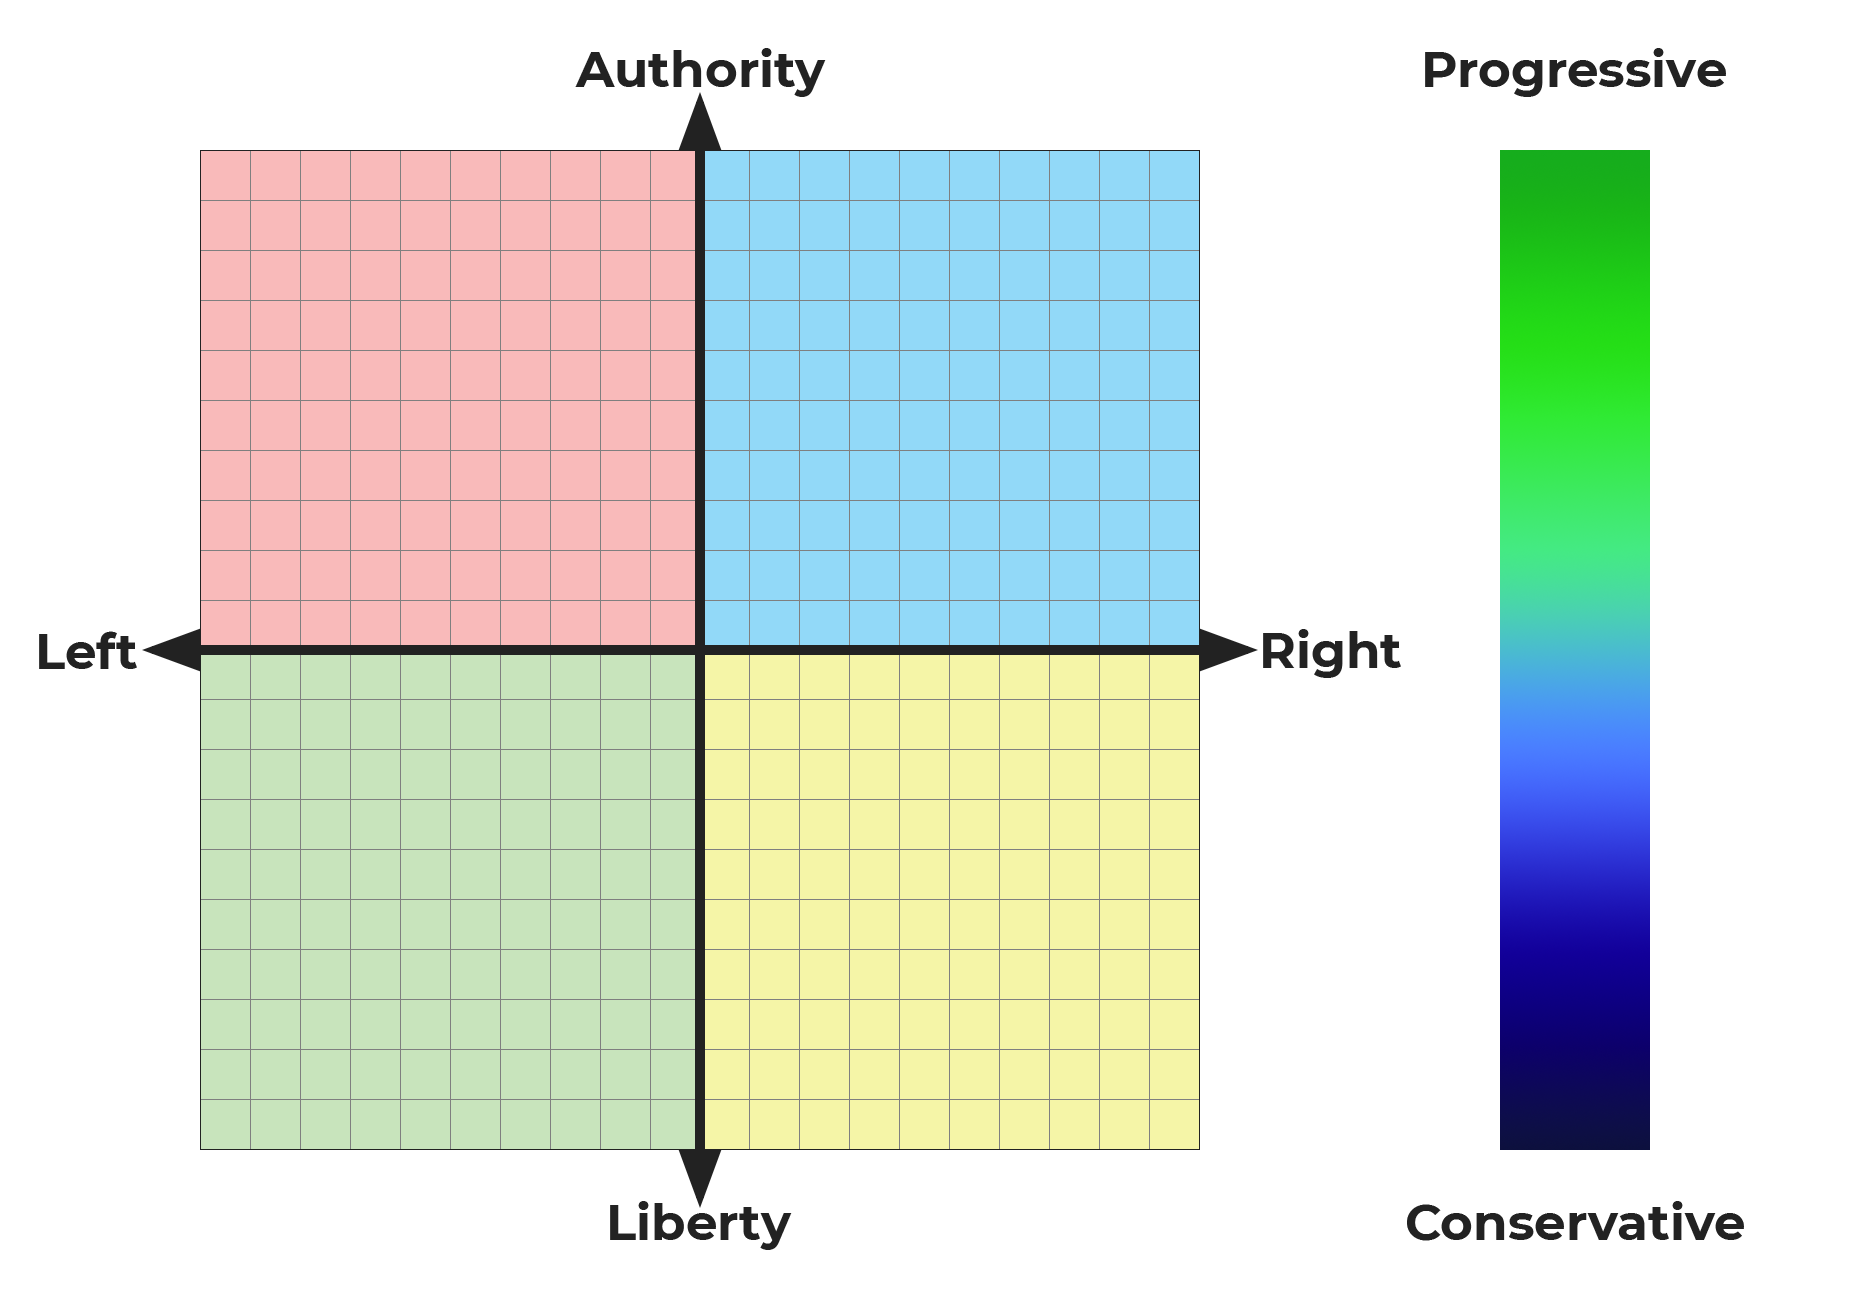
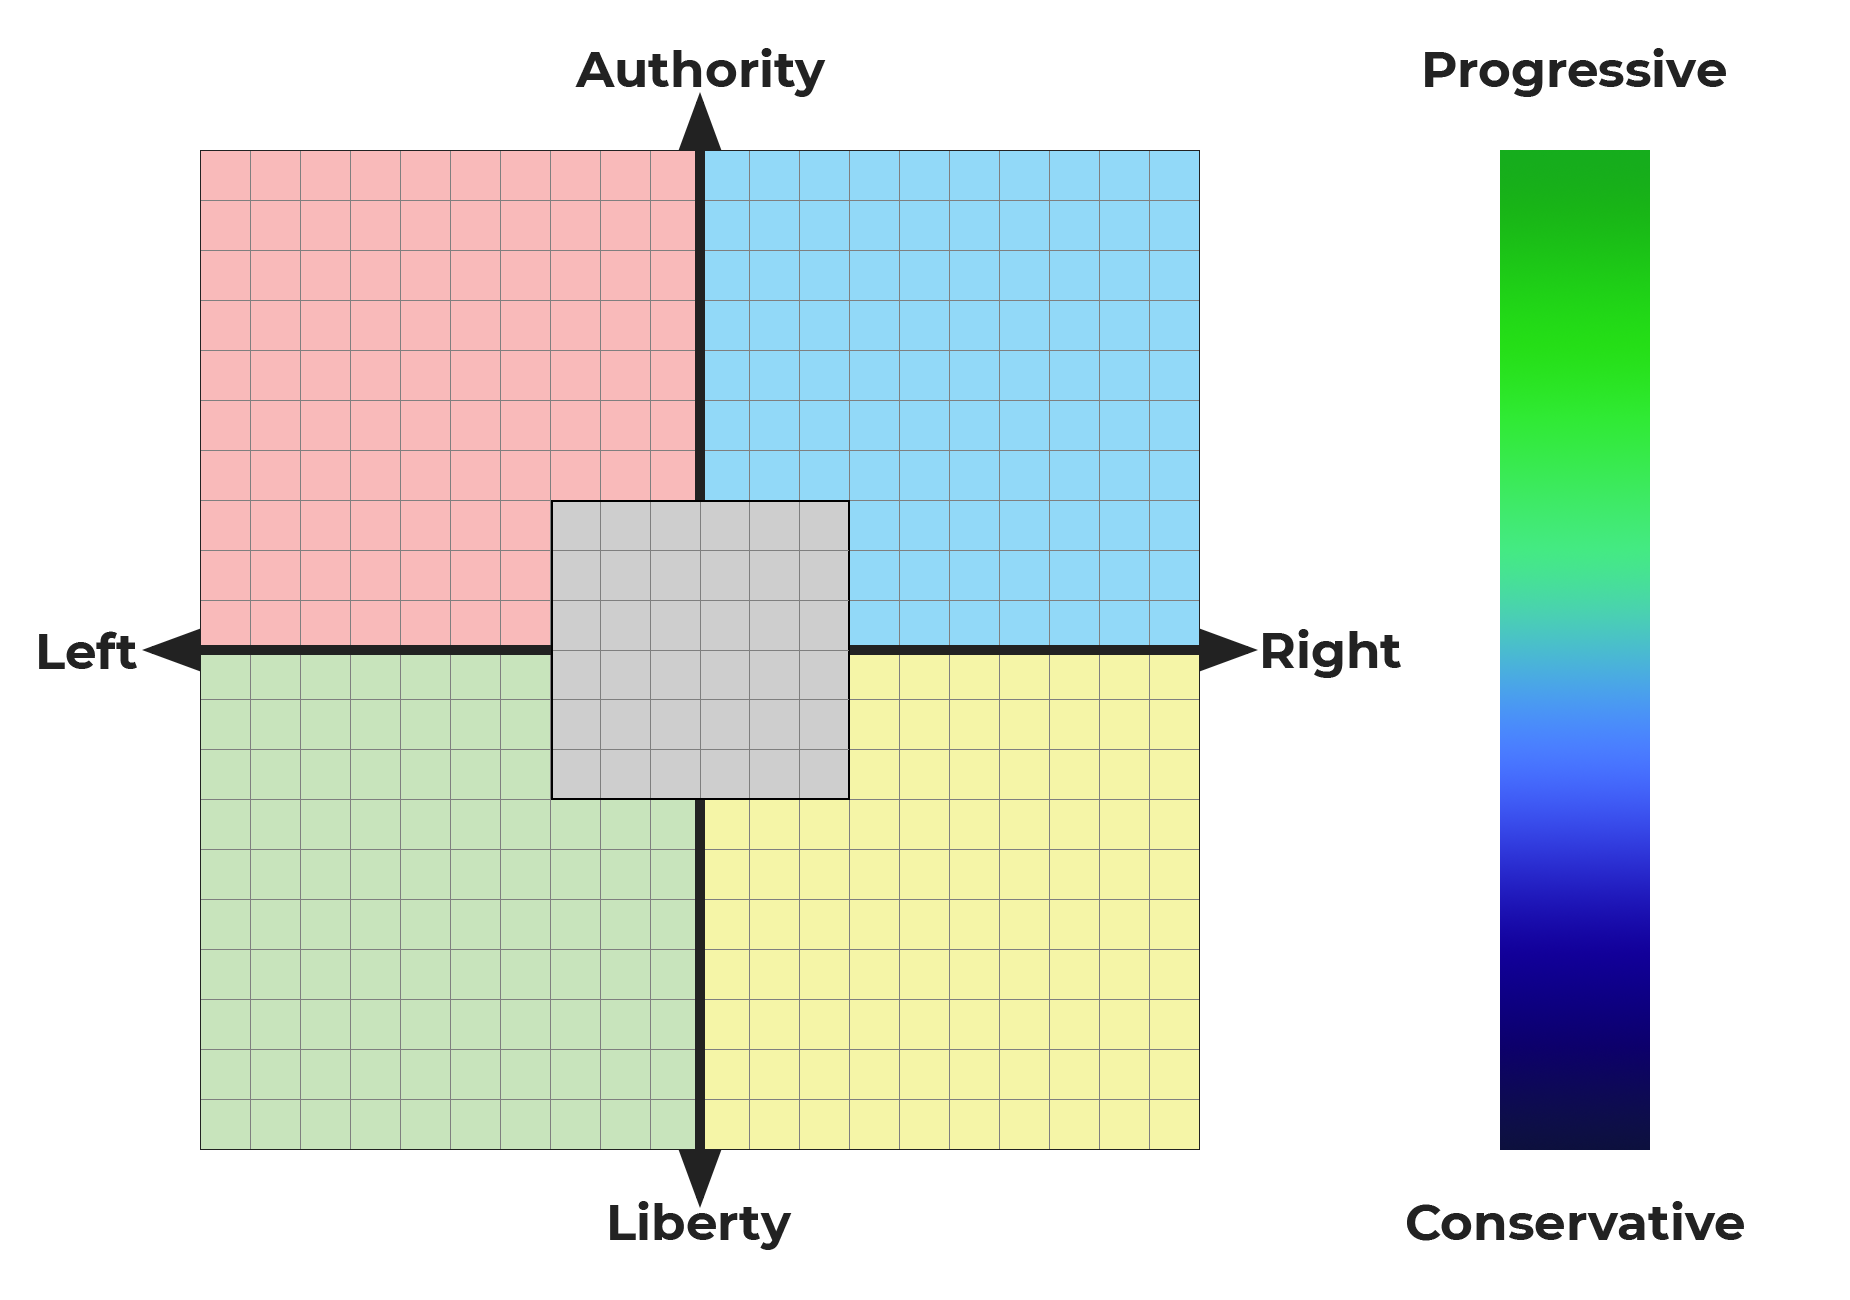
new images, new result view. [2.0.4]

Changed region(s): [[0.2773, 0.3692, 0.4622, 0.6154]]

diff --git a/js/results.js b/js/results.js
@@ -14,6 +14,13 @@ window.onload = function() {
         ctx.fillRect(0, 0, 1850, 1600);
         ctx.drawImage(background, 0, 0);
 
+        var rect = c.getContext("2d");
+        rect.beginPath();
+        rect.rect(140 + (1000 * (x_axis+10)/20), 1090 - (1000 * (y_axis+10)/20), 125, 125);
+        rect.fillStyle = 'rgb(32,32,32,0.2)';
+        rect.fill();
+        rect.stroke();
+
         var dot = c.getContext("2d");
         dot.beginPath();
         dot.arc(200 + (1000 * (x_axis+10)/20), 1150 - (1000 * (y_axis + 10)/20), 25, 0, 2 * Math.PI);
@@ -29,14 +36,14 @@ window.onload = function() {
         line.strokeStyle = "red";
         line.stroke();
 
-        ctx.font="50px Montserrat";
+        ctx.font="45px Montserrat";
         ctx.textAlign="center";
         ctx.fillStyle="#222222";
-        ctx.fillText("Left / Right Axis (x): " + x_axis, 725, 1375);
-        ctx.fillText("Auth / Lib Axis (y): " + y_axis, 725, 1450);
-        ctx.fillText("Prog / Con Axis (z): " + z_axis, 725, 1525);
+        ctx.fillText("Economic Axis (Right / Left) [x]: " + x_axis, 725, 1350);
+        ctx.fillText("Civil Axis (Auth / Lib) [y]: " + y_axis, 725, 1425);
+        ctx.fillText("Societal Axis (Prog / Con) [z]: " + z_axis, 725, 1500);
         ctx.textAlign="right";
-        ctx.font="45px Montserrat";
+        ctx.font="40px Montserrat";
         ctx.fillText(App.name+' v'+App.version, 1800, 1550);
 
         document.getElementById("banner").src = c.toDataURL();

diff --git a/js/main.js b/js/main.js
@@ -1,4 +1,4 @@
 const App = {
     name: 'Primo-SapplyValues',
-    version: '2.0.3'
+    version: '2.0.4'
 };
